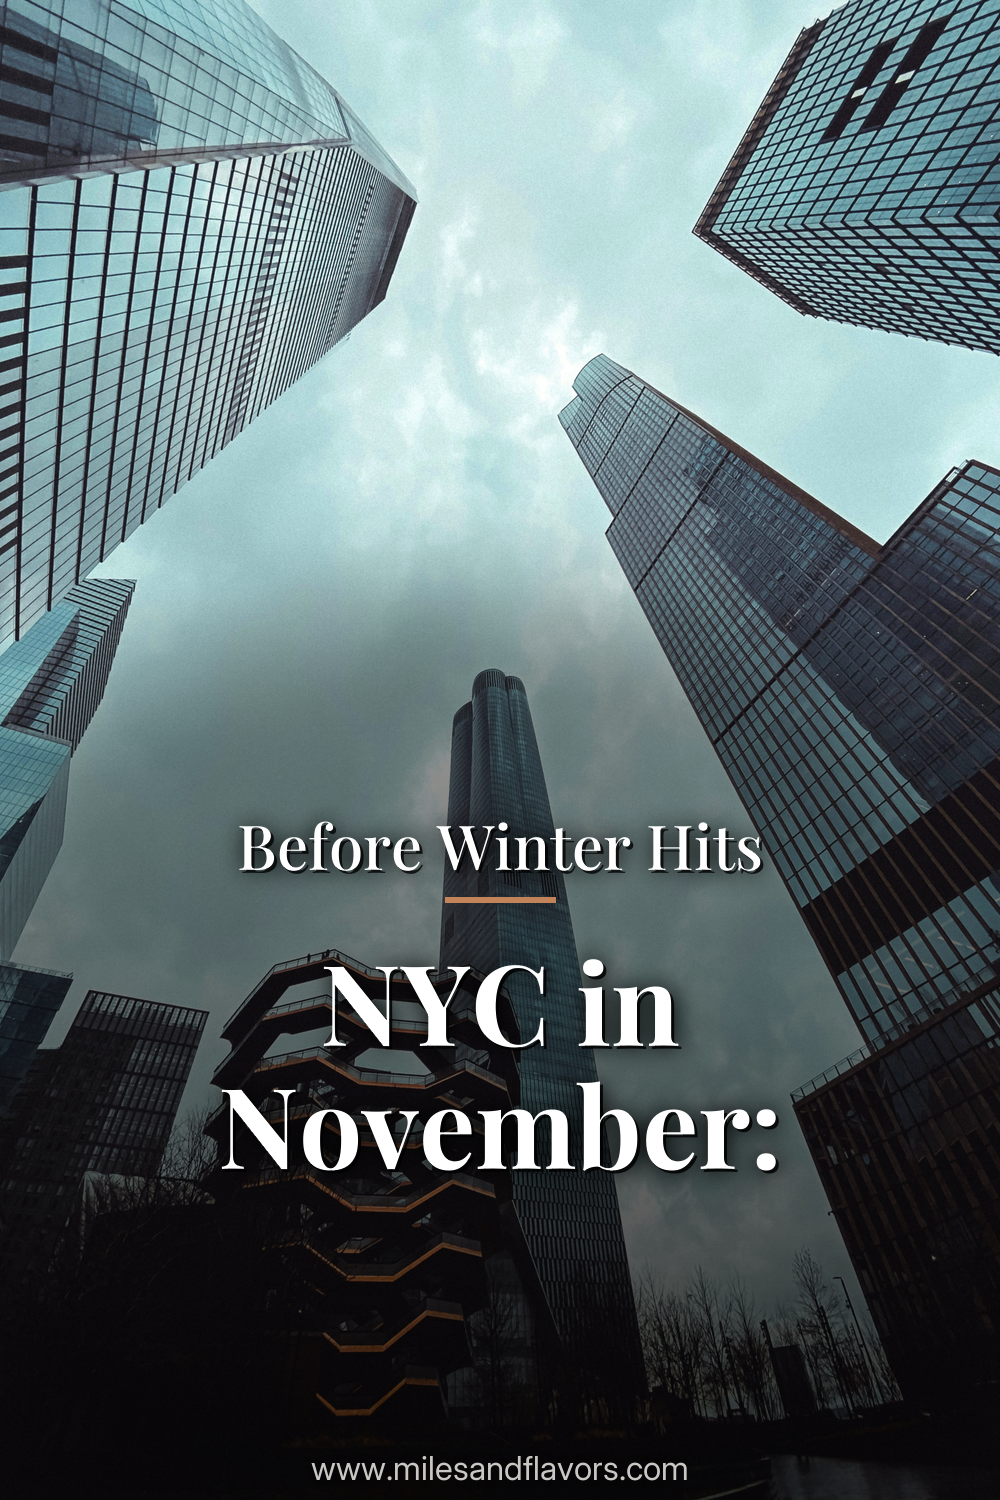
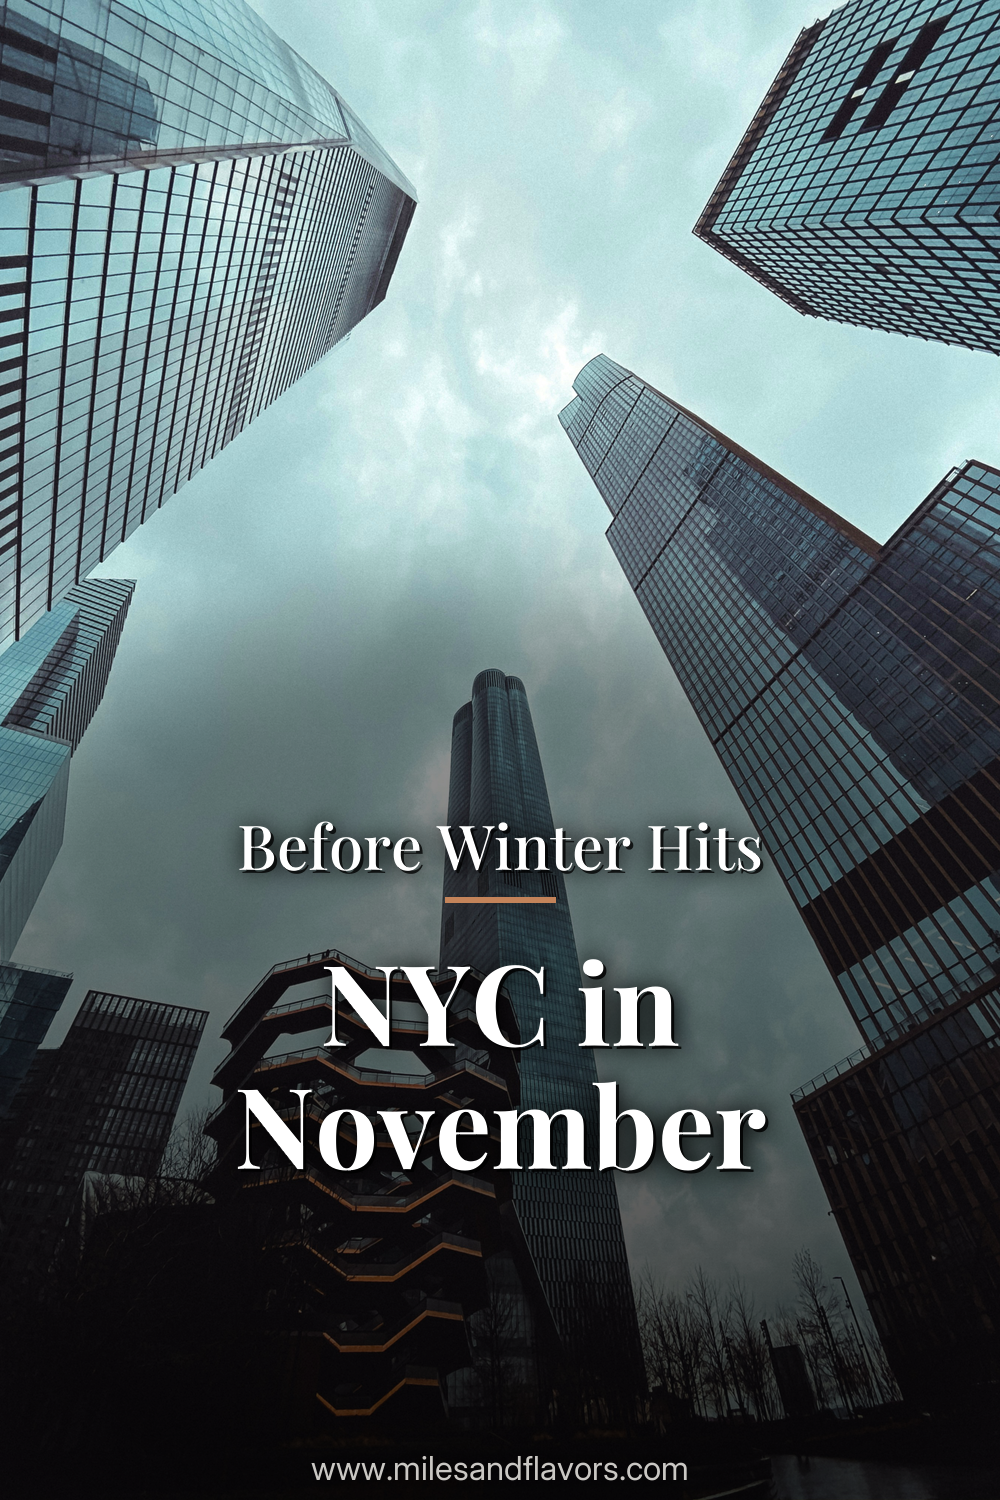
Force text box to bottom zone on today's 7 pins, drop dangling trailing colons
- render.py: Template column's zone word (top/bottom/center) is now honored again instead of always auto-detecting (supersedes 2026-08-10 auto-only rule, per user request)
- Removed trailing colons from 4 Pin bold texts that had nothing following them (NYC in November, Thanksgiving in Chicago, Chicago Itinerary, 25 Best Things NYC) — the light/hook text renders above the bold text, so a colon at the very bottom read as unfinished

Changed region(s): [[0.217, 0.7053, 0.775, 0.7973]]

diff --git a/render.py b/render.py
@@ -422,15 +422,15 @@ def render_one(r, col, allow_escape=True):
     else:
         start = 0  # mindig a legfrissebb kép (imgs_in mtime szerint sortol)
 
-    # Template oszlop: CSAK az overlay erősségét/fényességét vesszük innen (light/dark/medium).
-    # A zóna (top/bottom/center) override-ot szándékosan NEM alkalmazzuk (user kérés, 2026-08-10) —
-    # helyette a find_best_zone() auto-detect dönt a tényleges fotó tartalma alapján, hogy a
-    # szöveg sose takarja ki a kép lényegét, függetlenül attól mit ír a CSV Template oszlopa.
+    # Template oszlop: a zóna (top/bottom/center) override ÉS az overlay erősség/fényesség
+    # is innen jön. (2026-08-17: user kérés — visszaállítva, hogy a Template oszlop zóna-szava
+    # ténylegesen érvényesüljön; az aug.10-i "mindig auto-detect" szabály felülírva. Ha a
+    # Template oszlopban nincs zóna-szó (pl. csak "Accent"), továbbra is find_best_zone() dönt.)
     template = r[col["Template"]].strip() if "Template" in col else ""
-    _, overlay_alpha, brightness = parse_template(template)
+    zone_override, overlay_alpha, brightness = parse_template(template)
 
     photos = [load(files[start])]
-    img = render_hybrid_pin(bold, light, photos, zone_override=None, overlay_alpha=overlay_alpha, brightness=brightness, allow_escape=allow_escape)
+    img = render_hybrid_pin(bold, light, photos, zone_override=zone_override, overlay_alpha=overlay_alpha, brightness=brightness, allow_escape=allow_escape)
     datum = r[col["Datum"]].strip() if "Datum" in col else ""
     ido   = r[col["Idopont"]].strip().replace(":", "-") if "Idopont" in col else ""
     if datum and ido:
